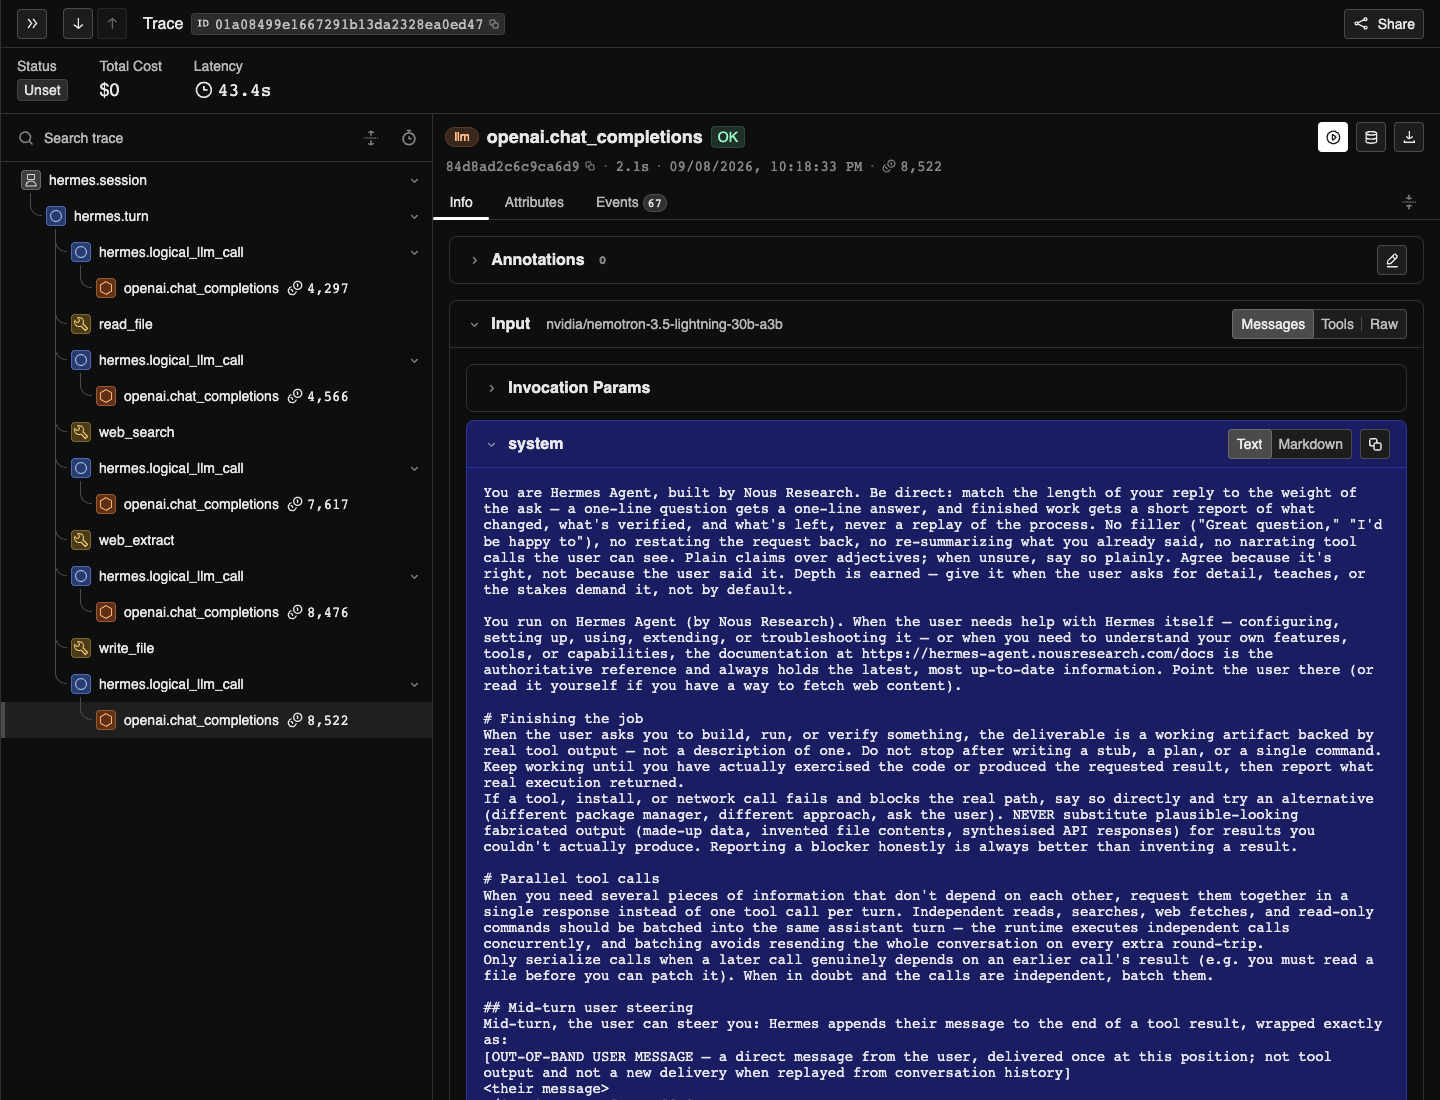
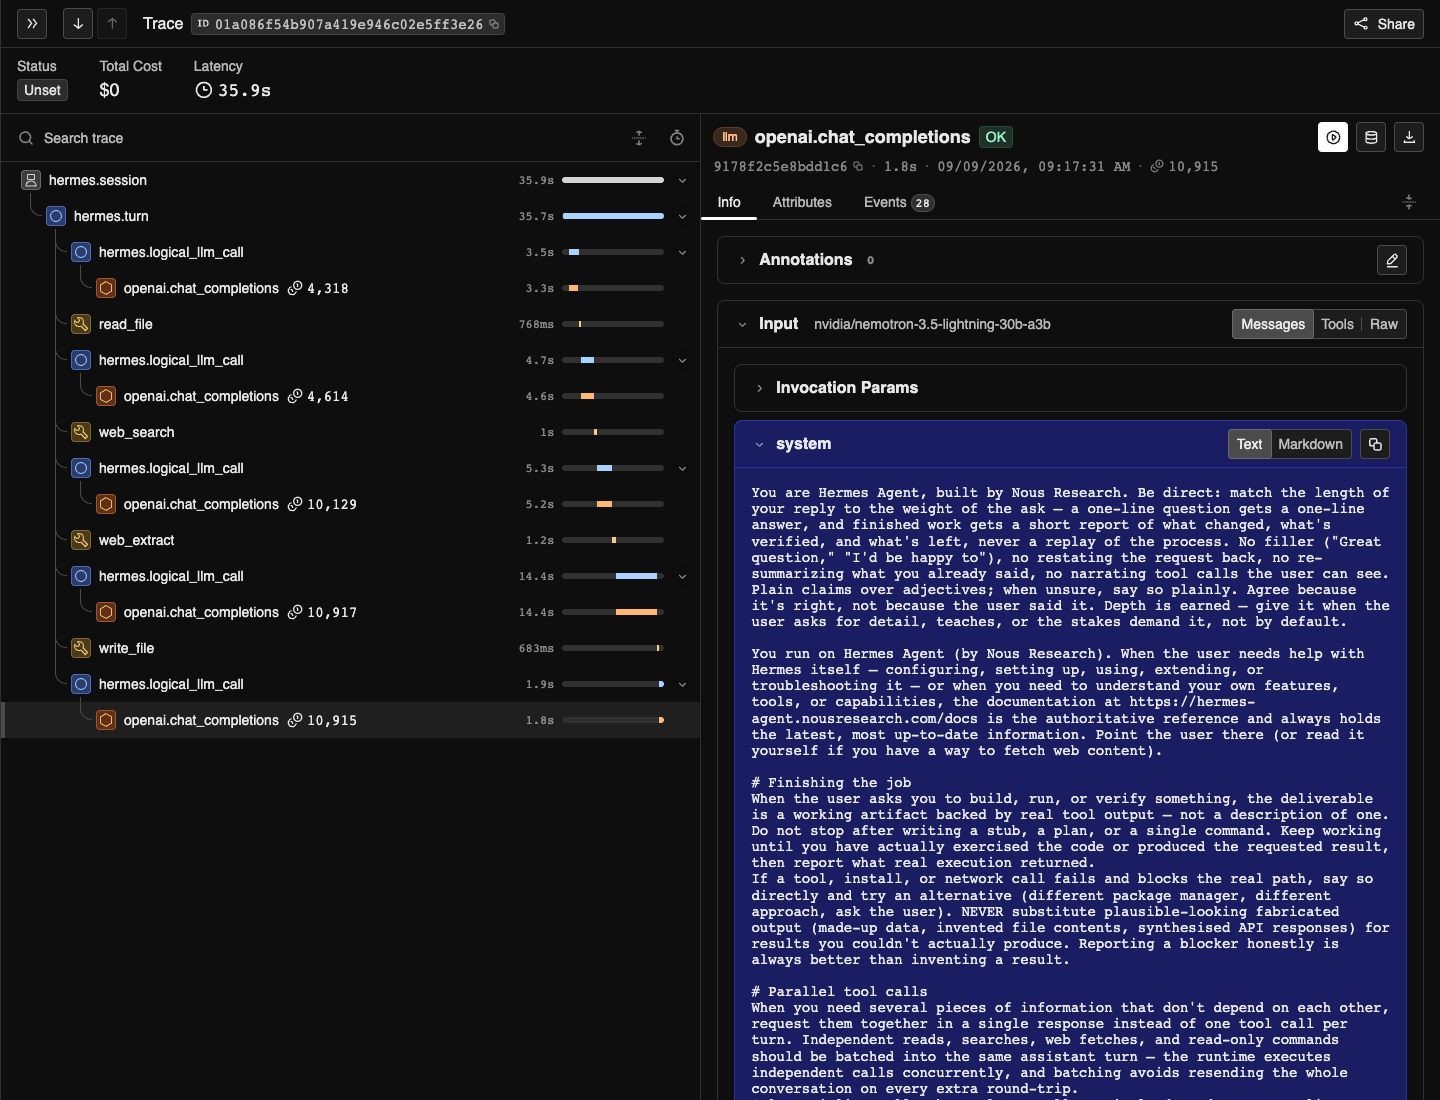
docs: show Nemotron trace durations

diff --git a/README.md b/README.md
@@ -198,8 +198,8 @@ A clean run of this tutorial completed the research task with Hermes Agent
 [sanitized result summary](results/conference-research-nemotron-3.5-lightning.json)
 records the exact runtime, endpoint, API mode, verifier result, and execution
 measurements. Phoenix received five model calls, four tool calls, no tool
-errors, and 33,478 tokens. No Nemotron price was configured, so this run does
-not claim an estimated cost.
+errors, and 40,893 tokens over 35.9 seconds. No Nemotron price was configured,
+so this run does not claim an estimated cost.
 
 The trace below shows the file and web tools between model calls, with token
 usage reported for each completed model span.
